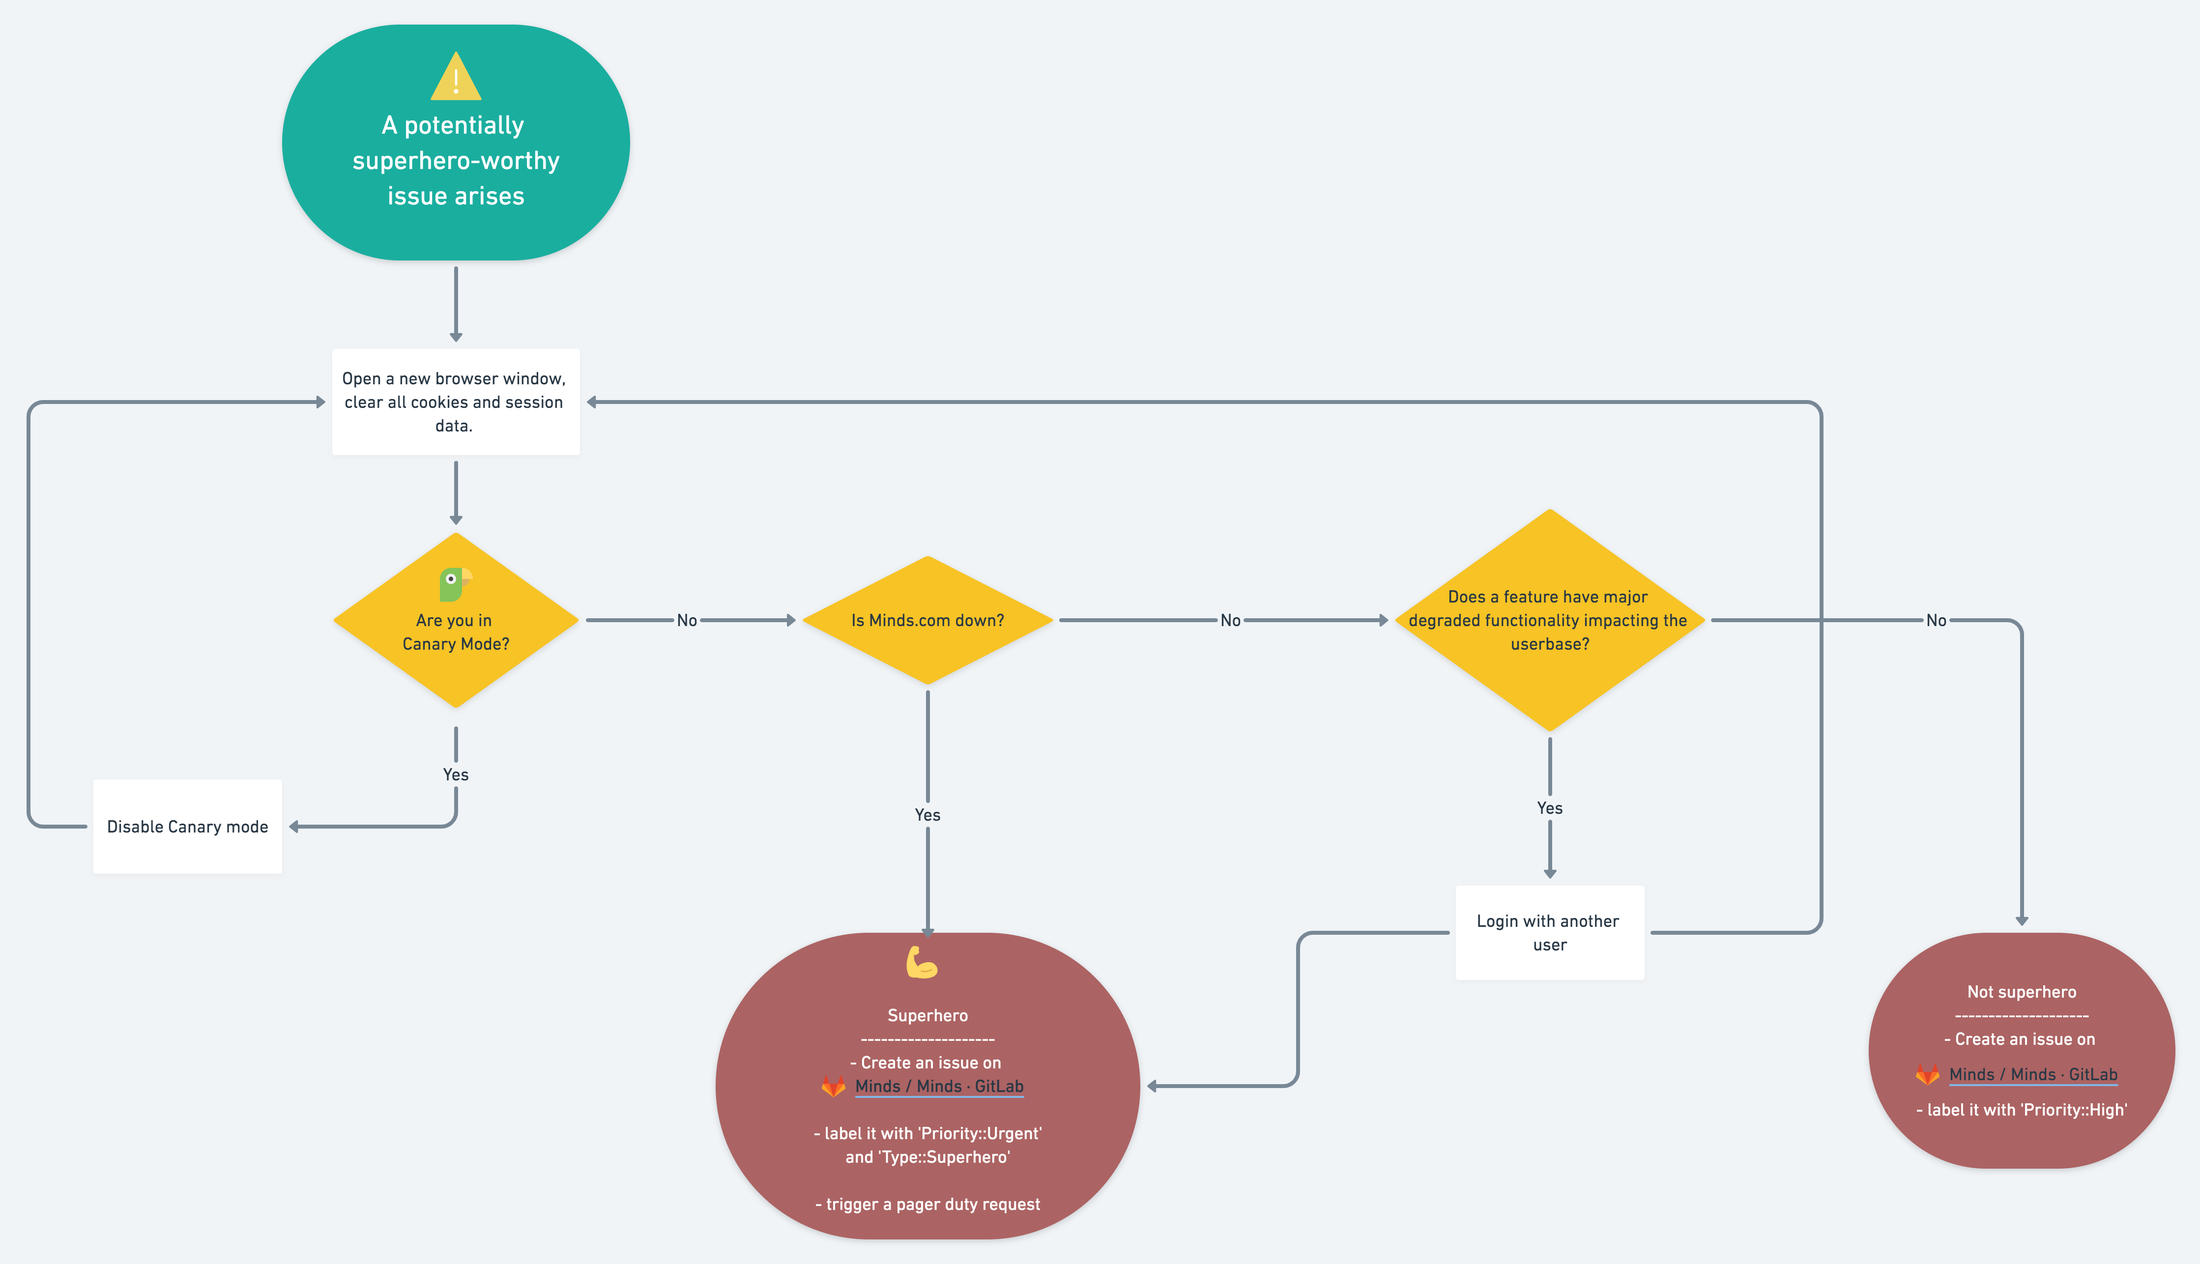
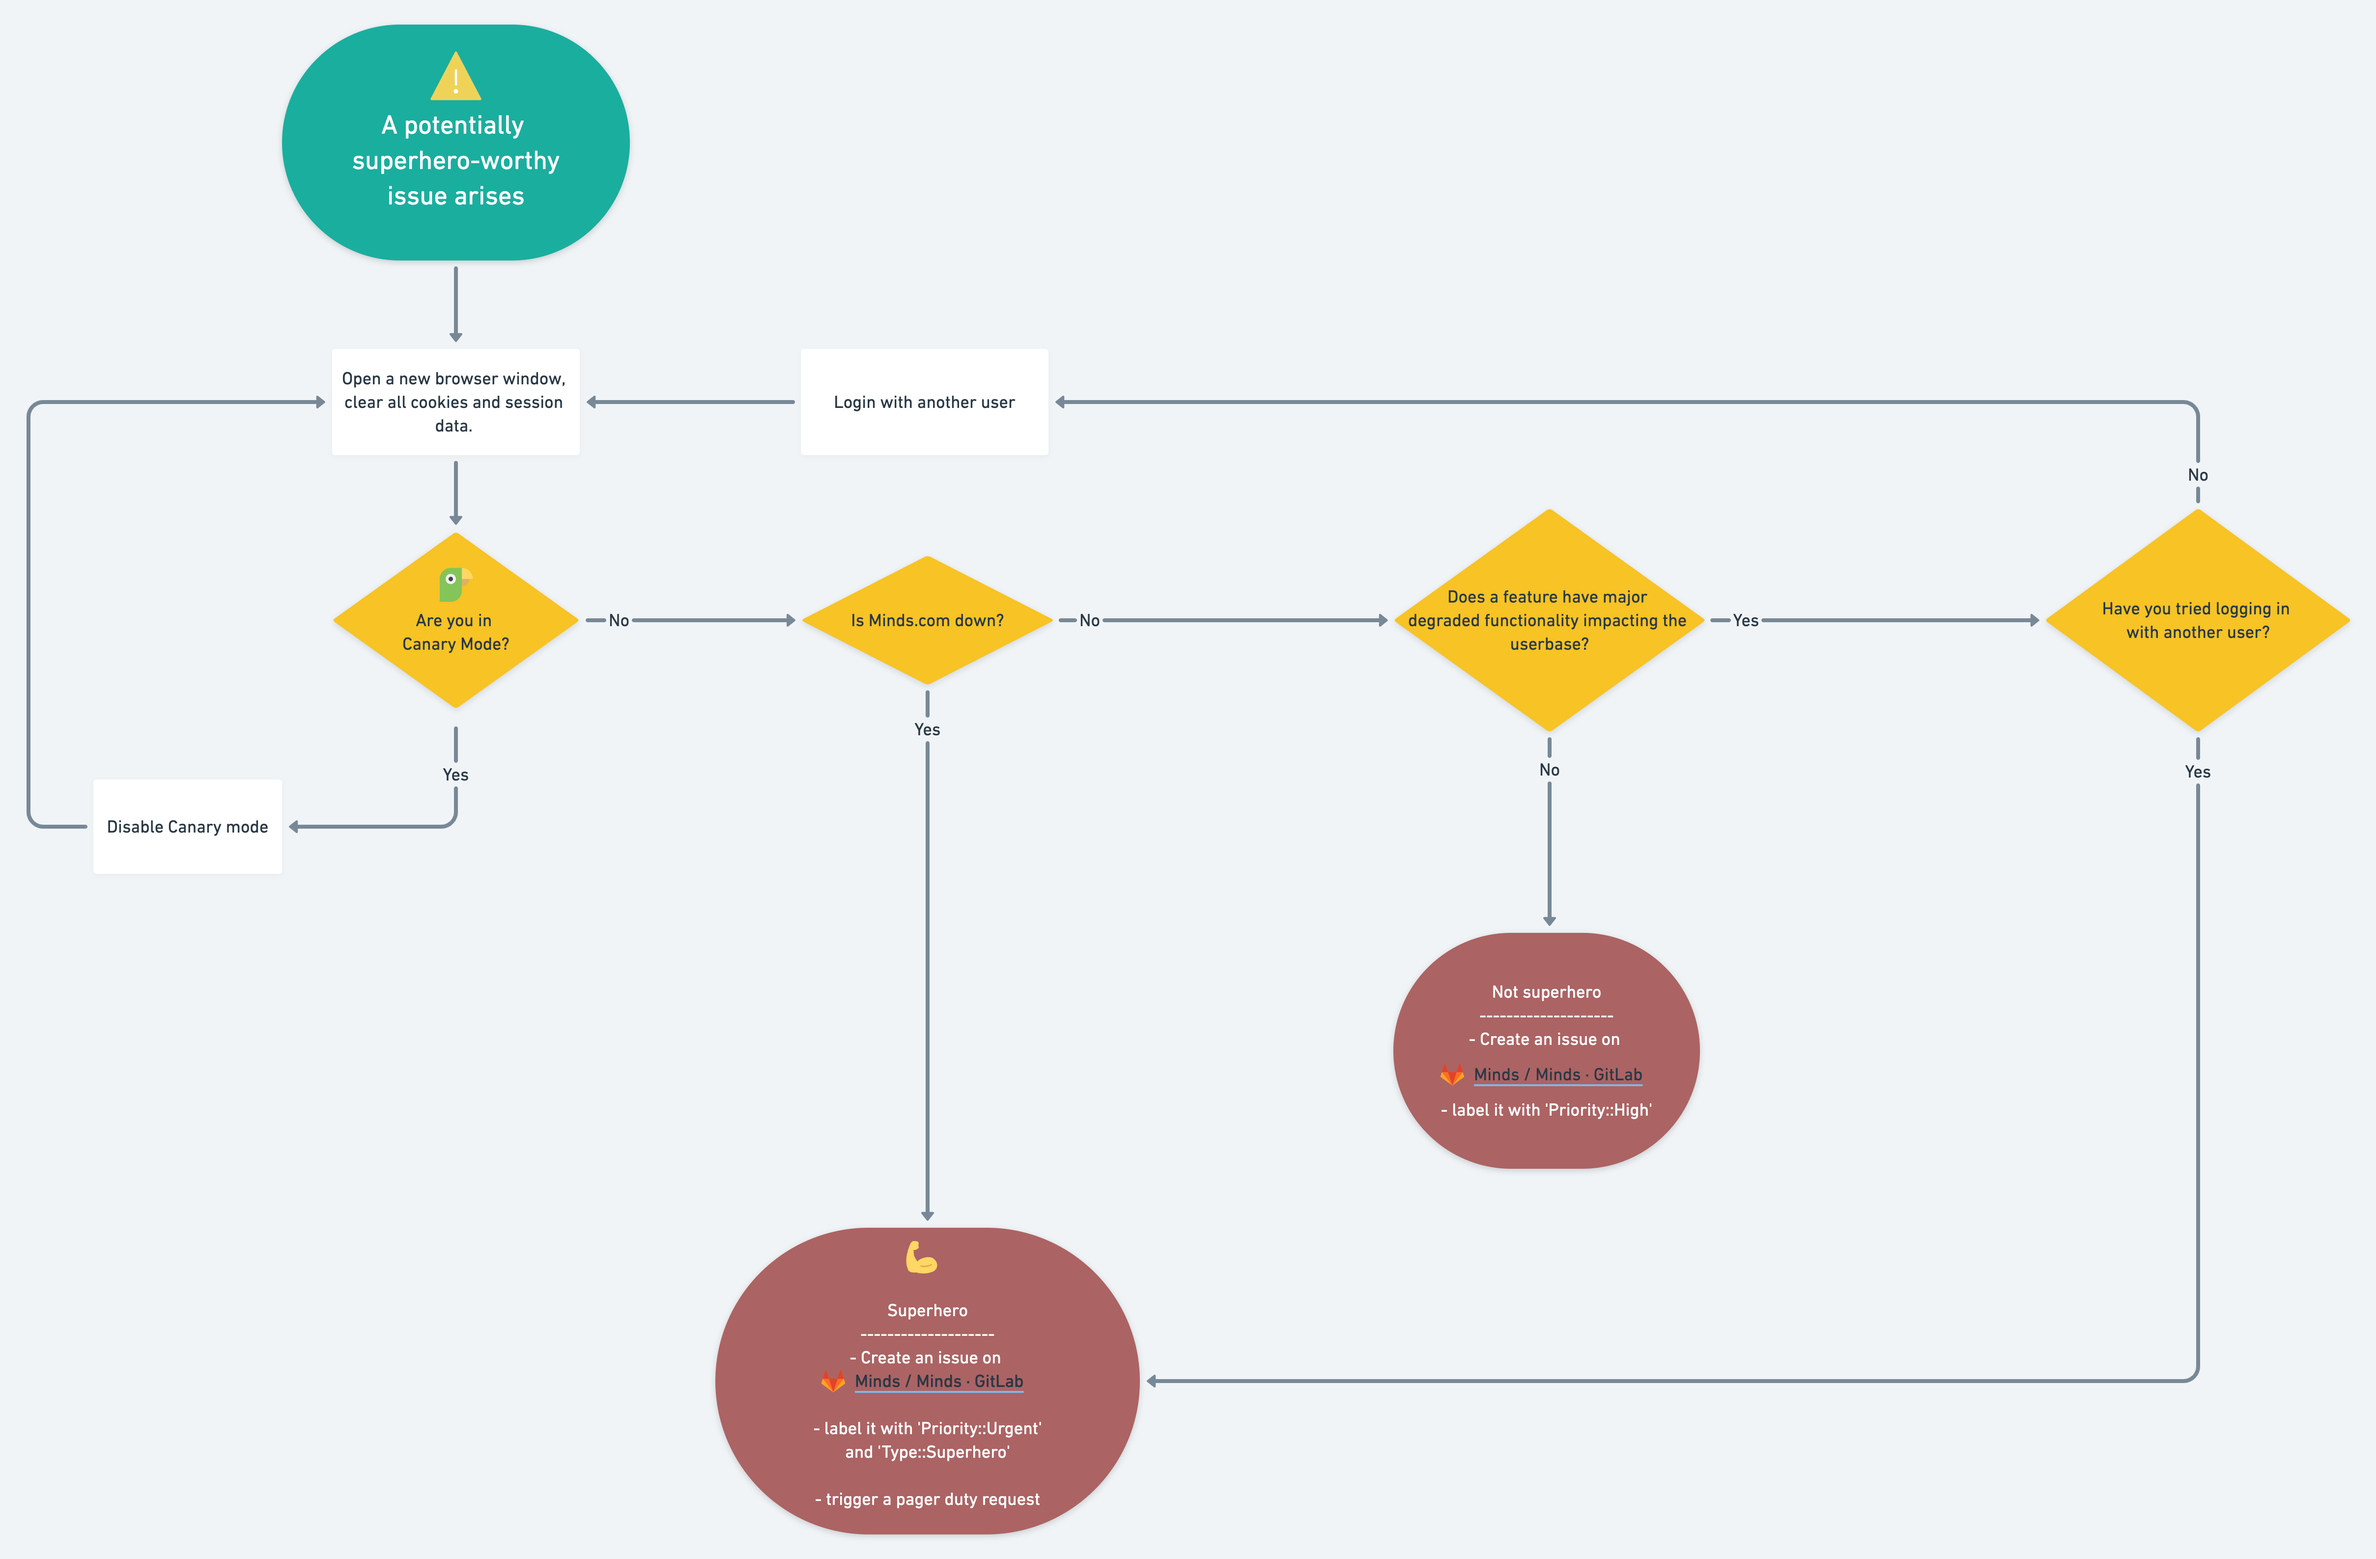
(chore): update superhero docs with new graphic and additional steps

diff --git a/docs/handbook/superhero.md b/docs/handbook/superhero.md
@@ -7,17 +7,22 @@ title: Superhero
 
 ## What is a Superhero
 
-A Superhero is a critical site outage that requires immediate attention.
+A Superhero is a critical site outage that requires immediate attention. We use [PagerDuty](https://pagerduty.com) to handle our on-call schedules and notification routing. 
 
 ## How to declare a Superhero
 
-Follow the **(wip)** diagram below:
+Follow the diagram below to determine if a Superhero should be called:
 
 [![Superhero diagram](assets/superhero.png "Diagram of Minds Superhero")
 Click to enlarge](assets/superhero.png)
 
-1. Always ppen a new browser window, clear all cookies and session data.
+1. Always open a new browser window, clear all cookies and session data.
 2. Ensure you are not in Canary mode or have any canary cookies set
 3. Create an new issue at [gitlab.com/minds/minds](gitlab.com/minds/minds) with the **Superhero** template.
-
 4. The template will automatically apply the **Type::Superhero** and **Superhero::Triggered** labels.
+5. Pagerduty will automatically be triggered via Gitlab. The Gitlab issue should be treated as the central communication hub with the **#superhero** room on Zulip used for additional offline support.
+
+## Runbooks
+
+> We are currently in the process of creating runbooks for on-call issues. We will update this section when they are ready.
+
